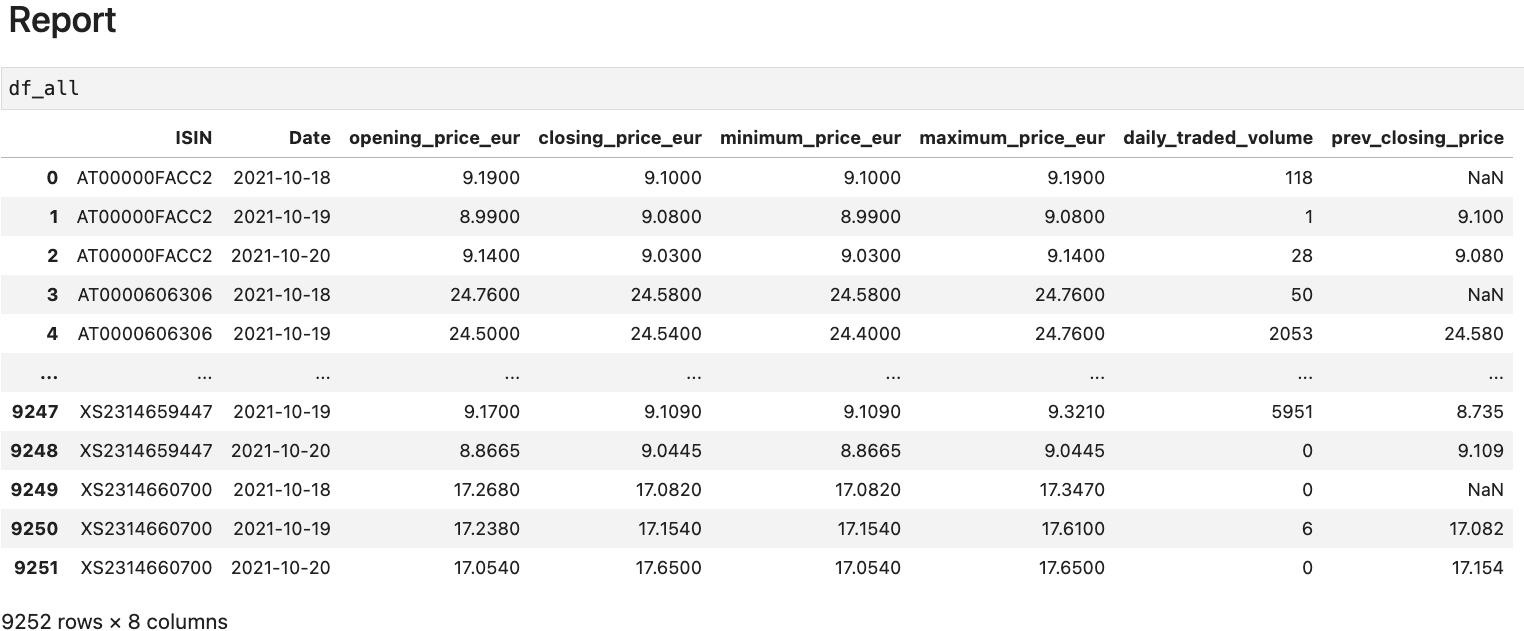
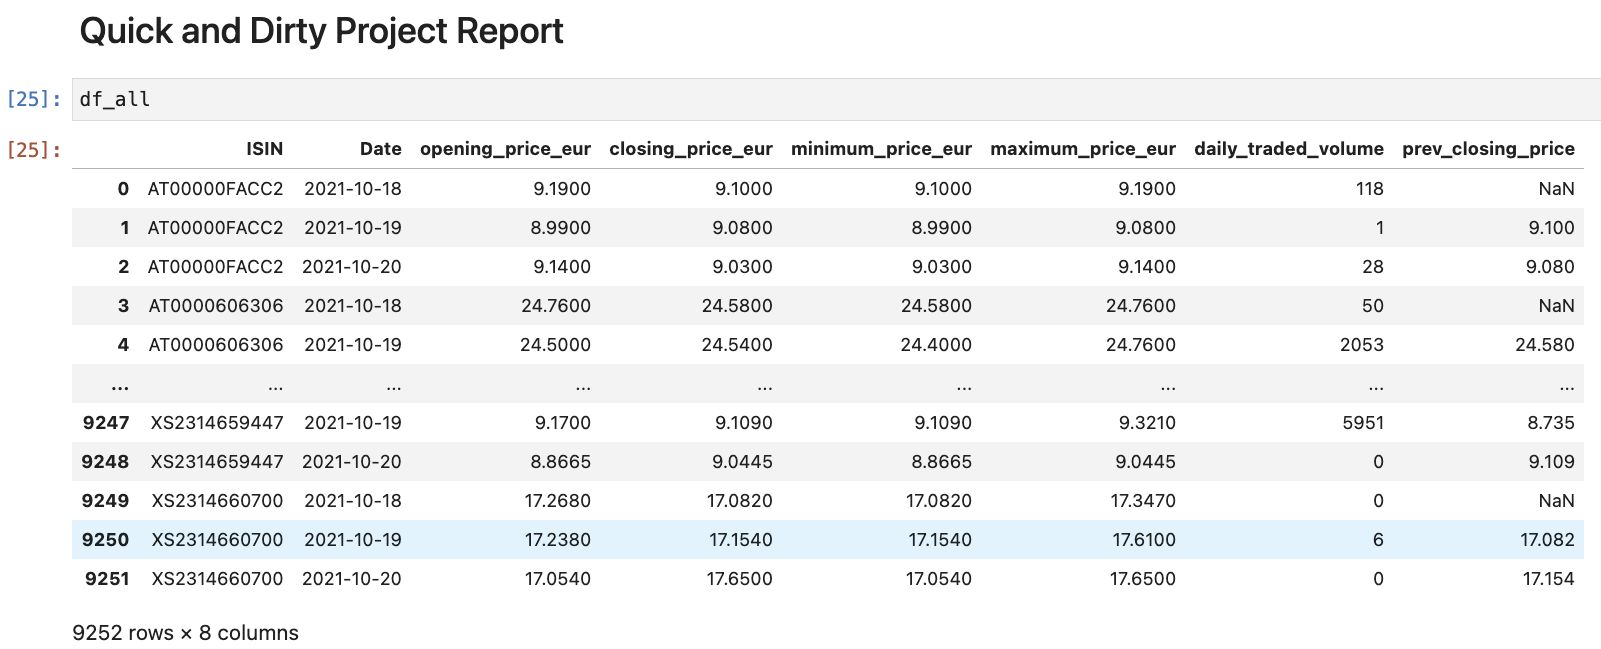
quick and dirty03

diff --git a/README.md b/README.md
@@ -81,15 +81,14 @@ However before we start coding we need to implement a few
 ### Step one: Quick and Dirty
 
 - **Level One** [`access_xetra_data.ipynb`](Starter-Code/accessing_the_xetra_data.ipynb)
-  The goal of this python code is to quickly connect to the project AWS S3 bucket (xetra -proj01) and pull the data file from Deutshce Boerse (deutsche-boerde-extra-pds) AWS S3 bucket.. see below
+  The goal of this python code is to quickly connect to the project AWS S3 bucket (xetra -proj01) and pull the data file from Deutshce Boerse (deutsche-boerde-extra-pds) AWS S3 bucket.. <span style="color:blue">See Below _blue_ text</span>
 
   ![Weekly Report](Images/accessing.png)
 
-- **Level Two** - [`quick_etl_solution.ipynb`](Starter-Code/quick_xetra_etl.ipynb) is a `quick_xetra_etl.ipynb` I illustrate a pulling data from the source Deutsche AWS then create a report
+- **Level Two** - [`quick_etl_solution.ipynb`](Starter-Code/quick_xetra_etl.ipynb) This illustrate build upon Level One by developing a report that in the future we will automate.. <span style="color:blue">See Below _blue_ text</span>
 
-  ![Weekly Report](Images/variables.png)
+  ![Weekly Report](Images/variable.png)
 
-  -- Quick and Dirty Report
   ![Weekly Report](Images/quick_report.png)
 
 ### Step two: Reengineer Quick Approach to Funtional
